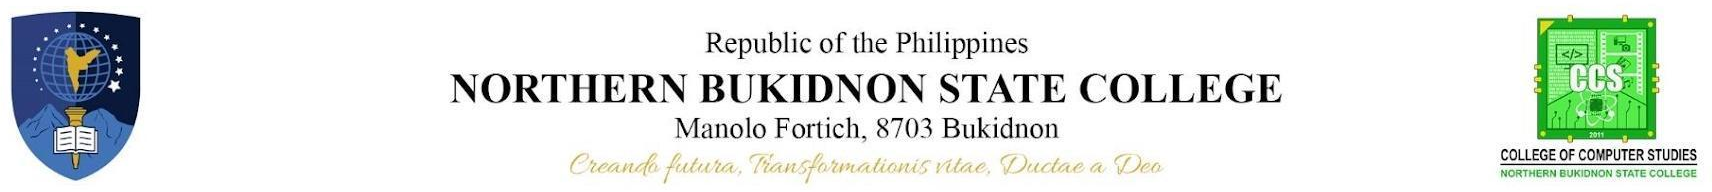
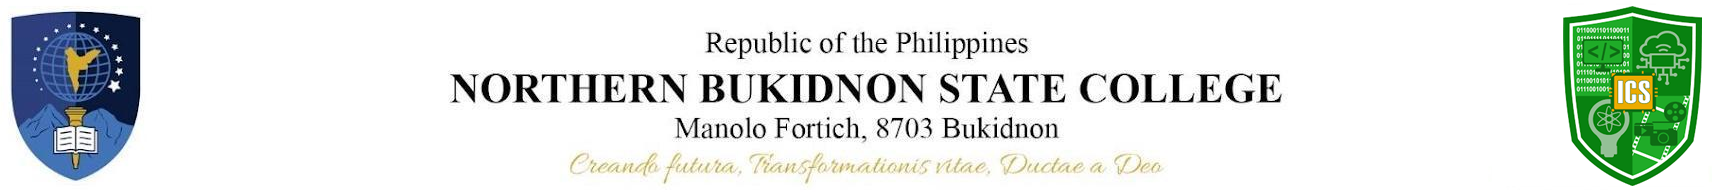
Letterhead: the ICS shield replaces the CCS block
The right side of the baked letterhead artwork (seal - college text -
department logo) now carries the ICS shield instead of the old College
of Computer Studies square and its caption, matching the user's
reference (seal left, NBSC text centred, ICS right).

Edited in place by script: white-out the old block's bounding box
(x1496-1703), then draw LOGO.png scaled to 180px height against the
same right edge. The canvas stays 1712x192, so LETTERHEAD_ASPECT and
every exporter constant remain valid - View.tsx, SubjectionView, the
PDF stamp and the Word page header all update with no code changes.
Backup of the previous artwork lives at
Temp\opencode\nbsc-letterhead-backup.png.

Changed region(s): [[0.8668, 0.0312, 1.0, 0.9688]]

diff --git a/src/utils/letterhead.ts b/src/utils/letterhead.ts
@@ -1,22 +1,22 @@
 // The letterhead artwork and its placement on the page, shared by the PDF and
 // Word exports so both position it identically.
 //
-// The artwork is the department mark (public/ccs-logo.jpg, 219 x 125): a crest
-// block with its college and school captions baked into the image. It is
-// centred in the page's top band; the top offset and gap below still follow the
-// geometry measured from the official signed syllabus.
+// Every constant here was measured from the official signed syllabus rather
+// than estimated: the PDF places one 2500x1767 image at x=47.25 spanning
+// 842.25pt on a 936pt page, and the visible content inside that image runs from
+// 392/2500 to 2088/2500. That puts the artwork at 571.4pt wide -- 61% of the
+// page -- centred with ~2.5in insets, NOT flush to the margins.
 
-export const LETTERHEAD_URL = '/ccs-logo.jpg'
+export const LETTERHEAD_URL = '/nbsc-letterhead.png'
 
-// public/ccs-logo.jpg is 219 x 125px. Both exporters need the aspect
+// public/nbsc-letterhead.png is 1712 x 192px. Both exporters need the aspect
 // ratio up front (pdf-lib to scale the stamp, docx to size the ImageRun), so it
 // is declared rather than probed. If that artwork is ever replaced with
 // different proportions, this constant must follow it.
-export const LETTERHEAD_ASPECT = 219 / 125
+export const LETTERHEAD_ASPECT = 1712 / 192
 
-/** Visible letterhead width as a fraction of the page width — about a quarter
- * of the page keeps the crest legible without crowding the body. */
-export const LETTERHEAD_WIDTH_RATIO = 0.25
+/** Visible letterhead width as a fraction of the page width. */
+export const LETTERHEAD_WIDTH_RATIO = 0.61
 
 /** Gap between the top of the page and the top of the letterhead. */
 export const LETTERHEAD_TOP_IN = 0.14

diff --git a/src/components/SyllabusReport.tsx b/src/components/SyllabusReport.tsx
@@ -94,7 +94,7 @@ export default function SyllabusReport({
     <div className="syllabus-doc__page" ref={rootRef}>
       {/* Letterhead */}
       <header className="sd-letterhead">
-        <img className="sd-letterhead__img" style={{ width: '25%' }} src="/ccs-logo.jpg" alt="College of Computer Studies logo" />
+        <img className="sd-letterhead__img" src="/nbsc-letterhead.png" alt="Northern Bukidnon State College" />
         <div className="sd-letterhead__text">
           <div>{SCHOOL.republic}</div>
           <div className="sd-letterhead__school">{SCHOOL.school}</div>
